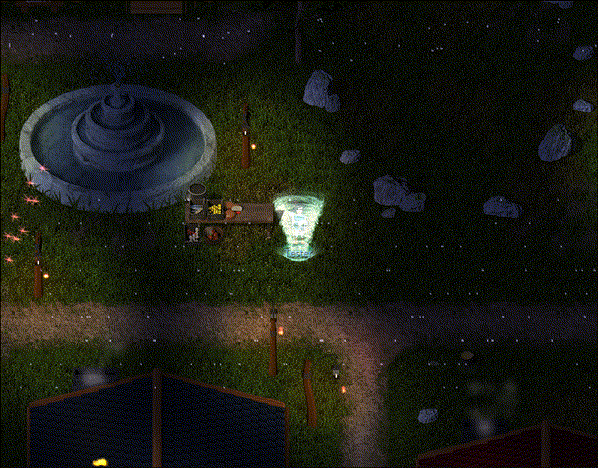
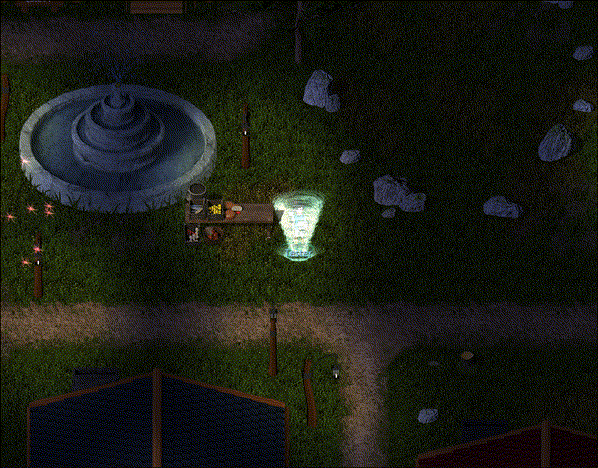
P3 (Opus D): particulas bajo techos ocultas, pasos solo en pasos reales, ogg sin panico, AO_STATUS, auditoria de datos

diff --git a/crates/client/src/render/fx.rs b/crates/client/src/render/fx.rs
@@ -117,6 +117,15 @@ pub struct PlacedGroup {
     pub group: ParticleGroup,
     /// Anchor in world pixels (`ScreenX * 32 + 15` of the official map loop).
     pub at: Vec2,
+    /// Under a roof: hidden (with its light) unless the player is indoors too, as the
+    /// official tile loop draws roofs over them.
+    pub roofed: bool,
+}
+
+impl PlacedGroup {
+    fn visible(&self, indoor: bool) -> bool {
+        !self.roofed || indoor
+    }
 }
 
 pub struct Fx {
@@ -398,6 +407,9 @@ impl Fx {
         // Additive map streams light their surroundings with their own colour.
         if let Some(o) = &self.official {
             for g in &self.map_groups {
+                if !g.visible(self.weather.indoor) {
+                    continue;
+                }
                 let Some(def) = o.streams.get(g.group.stream - 1).filter(|d| d.additive) else { continue };
                 let c = stream_color(def);
                 out.push((g.at, 80.0, Color::new(c.r, c.g, c.b, 0.55)));
@@ -405,6 +417,28 @@ impl Fx {
         }
         out
     }
+}
+
+/// Whether a world pixel is covered by a roof sprite (layer 4). The official client
+/// renders map particles before layer 4, so roofs hide them; here they are drawn after
+/// the world, so a group under a roof is hidden instead (shown when the player is
+/// indoors and roofs fade).
+fn under_layer4(db: &ao_formats::GraphicsDb, map: &AoMap, p: Vec2) -> bool {
+    let (tx, ty) = ((p.x / 32.0) as i32 + 1, (p.y / 32.0) as i32 + 1);
+    for y in ty..=ty + 8 {
+        for x in tx - 6..=tx + 6 {
+            if !ao_formats::csm::on_map(x, y) {
+                continue;
+            }
+            let g = map.layers[3][ao_formats::csm::tile(x, y)];
+            let Some(gr) = (g > 0).then(|| db.frame(g, 0.0)).flatten() else { continue };
+            let (ax, ay) = anchor(gr, (x - 1) as f32 * 32.0, (y - 1) as f32 * 32.0, true);
+            if Rect::new(ax, ay, gr.w, gr.h).contains(p) {
+                return true;
+            }
+        }
+    }
+    false
 }
 
 /// Average corner colour of a stream (for its light).
@@ -463,7 +497,7 @@ impl Fx {
     }
 
     /// Places the map's own particle streams (`.csm` particles) and drops the old ones.
-    pub fn load_map(&mut self, map: &AoMap) {
+    pub fn load_map(&mut self, map: &AoMap, db: &ao_formats::GraphicsDb) {
         self.map_groups.clear();
         self.char_fx.clear();
         let Some(o) = &self.official else { return };
@@ -471,7 +505,8 @@ impl Fx {
             let s = *s as usize;
             let Some(def) = (s >= 1).then(|| o.streams.get(s - 1)).flatten() else { continue };
             let at = vec2((x - 1) as f32 * 32.0 + 15.0, (y - 1) as f32 * 32.0 + 15.0);
-            self.map_groups.push(PlacedGroup { group: ParticleGroup::new(s, def, -1, 0x9E37_79B9 ^ (i as u32 * 7919 + 1)), at });
+            let roofed = under_layer4(db, map, at);
+            self.map_groups.push(PlacedGroup { group: ParticleGroup::new(s, def, -1, 0x9E37_79B9 ^ (i as u32 * 7919 + 1)), at, roofed });
         }
     }
 
@@ -539,6 +574,9 @@ impl Fx {
         for g in &self.map_groups {
             let Some(def) = o.streams.get(g.group.stream - 1) else { continue };
             if def.additive != additive {
+                continue;
+            }
+            if !g.visible(self.weather.indoor) {
                 continue;
             }
             let at = g.at - off;

diff --git a/crates/client-core/src/p3/fx.rs b/crates/client-core/src/p3/fx.rs
@@ -54,8 +54,8 @@ const COMPOSED_MEDITATIONS: [(u16, u16); 15] = [(122, 126), (123, 130), (124, 13
 
 /// Intro + loop FX for a meditation. The server sends the AO20 server ids of
 /// Meditaciones.dat (153..=172 by level, odd = citizen, even = criminal), which the
-/// client's fxs.ind (150 FX) does not have: they map to the composed meditations in
-/// level order, as the official client shows them.
+/// client's fxs.ind (150 FX) does not have. Our fallback (not official behaviour): map
+/// them to the official composed meditations in level order.
 pub fn meditation_clips(fx: u16) -> Option<(u16, u16)> {
     if let Some(c) = COMPOSED_MEDITATIONS.iter().find(|c| c.0 == fx) {
         return Some(*c);
@@ -626,7 +626,8 @@ impl FxCues {
                     self.my_tile = None;
                     out.push(Cue::Gone { id: u32::MAX });
                 }
-                S2C::Moved { id, x, y, .. } if *id != game.my_id => {
+                // Only a real step (state.rs also uses Moved for turns and snaps).
+                S2C::Moved { id, x, y, .. } if *id != game.my_id && game.ents.get(id).is_some_and(|e| e.t == 0.0 && (e.px, e.py) != (e.x, e.y)) => {
                     let s = self.terrain_step(game, *x, *y, files);
                     out.push(Cue::Sound { id: s, at: Some((*x, *y)) });
                 }
@@ -680,6 +681,35 @@ mod tests {
             let all = load_fxs(&r);
             assert!(all.len() > 100, "FXs.ini: {}", all.len());
         }
+    }
+
+    /// Data audit: spell FX of Hechizos.dat missing from FXs.ini, and map music ids
+    /// without an `ost_N.ogg` (printed with `--nocapture`).
+    #[test]
+    fn official_data_coverage() {
+        let Some(r) = root() else { return };
+        let fxs = load_fxs(&r);
+        let spells = ao_formats::dat::spells::load(&r).unwrap().data;
+        let mut missing: Vec<i32> = spells.iter().map(|(_, s)| s.fx).filter(|f| *f > 0 && !fxs.contains_key(&(*f as u16))).collect();
+        missing.sort();
+        missing.dedup();
+        let mut no_ost = std::collections::BTreeMap::new();
+        for n in 1..=1000u16 {
+            if let Some(m) = map_music(&r, n).filter(|m| *m > 0) {
+                if !r.join("OGG").join(format!("ost_{m}.ogg")).exists() {
+                    no_ost.entry(m).or_insert_with(Vec::new).push(n);
+                }
+            }
+        }
+        if std::env::var("AO_DUMP_STREAMS").is_ok() {
+            let m = ao_formats::AoMap::load(&r, 1).unwrap();
+            for (x, y, s) in m.particles.iter().filter(|p| (38..=48).contains(&p.0) && (55..=64).contains(&p.1)) {
+                eprintln!("p ({x},{y}) s={s} trig={}", m.triggers[ao_formats::csm::tile(*x, *y)]);
+            }
+        }
+        eprintln!("spell fx sin FXs.ini: {missing:?}");
+        eprintln!("musica sin ost: {:?}", no_ost.iter().map(|(m, v)| (m, v.len())).collect::<Vec<_>>());
+        assert!(missing.len() < 10, "{missing:?}");
     }
 
     #[test]

diff --git a/crates/client/src/render/characters.rs b/crates/client/src/render/characters.rs
@@ -34,6 +34,8 @@ pub struct CharFrame {
     pub additive: Option<Material>,
     /// `AO_EQUIP=weapon,shield,helmet`: local override for screenshots (own character).
     pub equip_override: Option<(u16, u16, u16)>,
+    /// `AO_STATUS=<bits>`: local status override for screenshots (own character).
+    pub status_override: Option<u32>,
 }
 
 thread_local! {
@@ -106,12 +108,13 @@ pub fn draw_character(assets: &mut Assets, e: &Ent, origin: Vec2, t_ms: f32) {
 fn draw_with(assets: &mut Assets, e: &Ent, origin: Vec2, t_ms: f32, frame: &CharFrame) {
     let id = frame.ids.get(&key(e)).copied();
     let me = id.is_some_and(|i| i == frame.my_id);
-    let Some(tint) = tint_for(e.status, me) else { return };
+    let flags = if me { frame.status_override.unwrap_or(e.status) } else { e.status };
+    let Some(tint) = tint_for(flags, me) else { return };
     let tl = v(e.tile_tl()) - origin;
     let heading = e.dir.heading();
     let Some(body) = assets.db.bodies.get(&e.body).cloned() else { return };
-    let dead = e.status & status::DEAD != 0;
-    let frozen = e.status & (status::PARALYZED | status::IMMOBILIZED) != 0;
+    let dead = flags & status::DEAD != 0;
+    let frozen = flags &(status::PARALYZED | status::IMMOBILIZED) != 0;
     if !dead {
         draw_ellipse(tl.x + 16.0, tl.y + 29.0, 11.0, 4.0, 0.0, Color::new(0.0, 0.0, 0.0, 0.3 * tint.a));
     }

diff --git a/crates/client/src/game.rs b/crates/client/src/game.rs
@@ -5,6 +5,7 @@
 //! Env vars for screenshots (read here, so `devtools.rs` stays untouched):
 //! - `AO_FXSELF=<fx>`: plays that FXs.ini effect on the own character forever (e.g. 16)
 //! - `AO_EQUIP=<weapon>,<shield>,<helmet>`: shows that equipment on the own character
+//! - `AO_STATUS=<bits>`: `ao_protocol::status` bits on the own character (e.g. 2 = paralysed)
 //! - `AO_WEATHER=rain|snow|fog|storm|clear`: forces the weather
 use crate::assets::Assets;
 use crate::audio::Channel;
@@ -48,7 +49,7 @@ pub fn poll(game: &mut Game, assets: &mut Assets, fx: &mut Fx) {
                     if std::env::var("AO_DEBUG").is_ok() {
                         eprintln!("map {map} '{}' textures={files} particles={}", m.name, m.particles.len());
                     }
-                    fx.load_map(m);
+                    fx.load_map(m, &assets.db);
                     let streams: Vec<usize> = fx.map_groups.iter().map(|g| g.group.stream).collect();
                     for s in streams {
                         fx.resolve_stream(assets, s);
@@ -140,5 +141,6 @@ pub fn poll(game: &mut Game, assets: &mut Assets, fx: &mut Fx) {
             f.additive = Some(fx.additive.clone());
         }
         f.equip_override = equip_override;
+        f.status_override = env("AO_STATUS").and_then(|s| s.parse().ok());
     });
 }

diff --git a/crates/client/src/audio.rs b/crates/client/src/audio.rs
@@ -162,7 +162,13 @@ impl Audio {
         if let Some(s) = self.effects.get(&id) {
             return s.clone();
         }
-        let s = effect_paths(&self.root, id).iter().find_map(|p| std::fs::read(p).ok().and_then(|b| load_now(&b)));
+        // Ogg goes through lewton first (errors, never panics): release builds use
+        // `panic = "abort"`, so the mixer's unwrapping decoder only ever sees clean WAV.
+        let s = effect_paths(&self.root, id).iter().find_map(|p| {
+            let b = std::fs::read(p).ok()?;
+            let b = if b.starts_with(b"OggS") { ogg_to_wav(b)? } else { b };
+            load_now(&b)
+        });
         self.effects.insert(id, s.clone());
         s
     }
